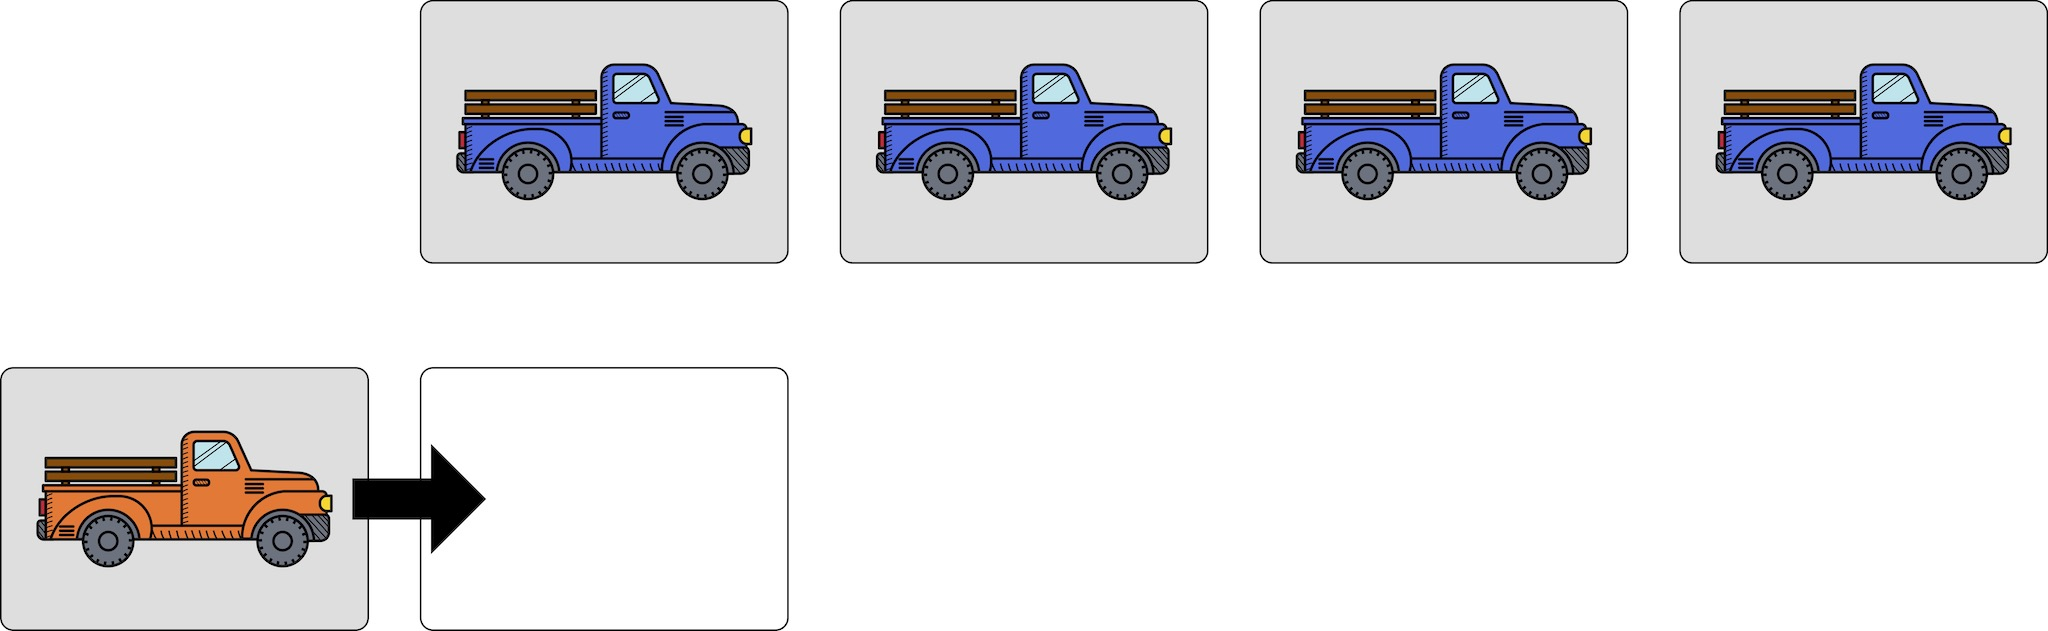
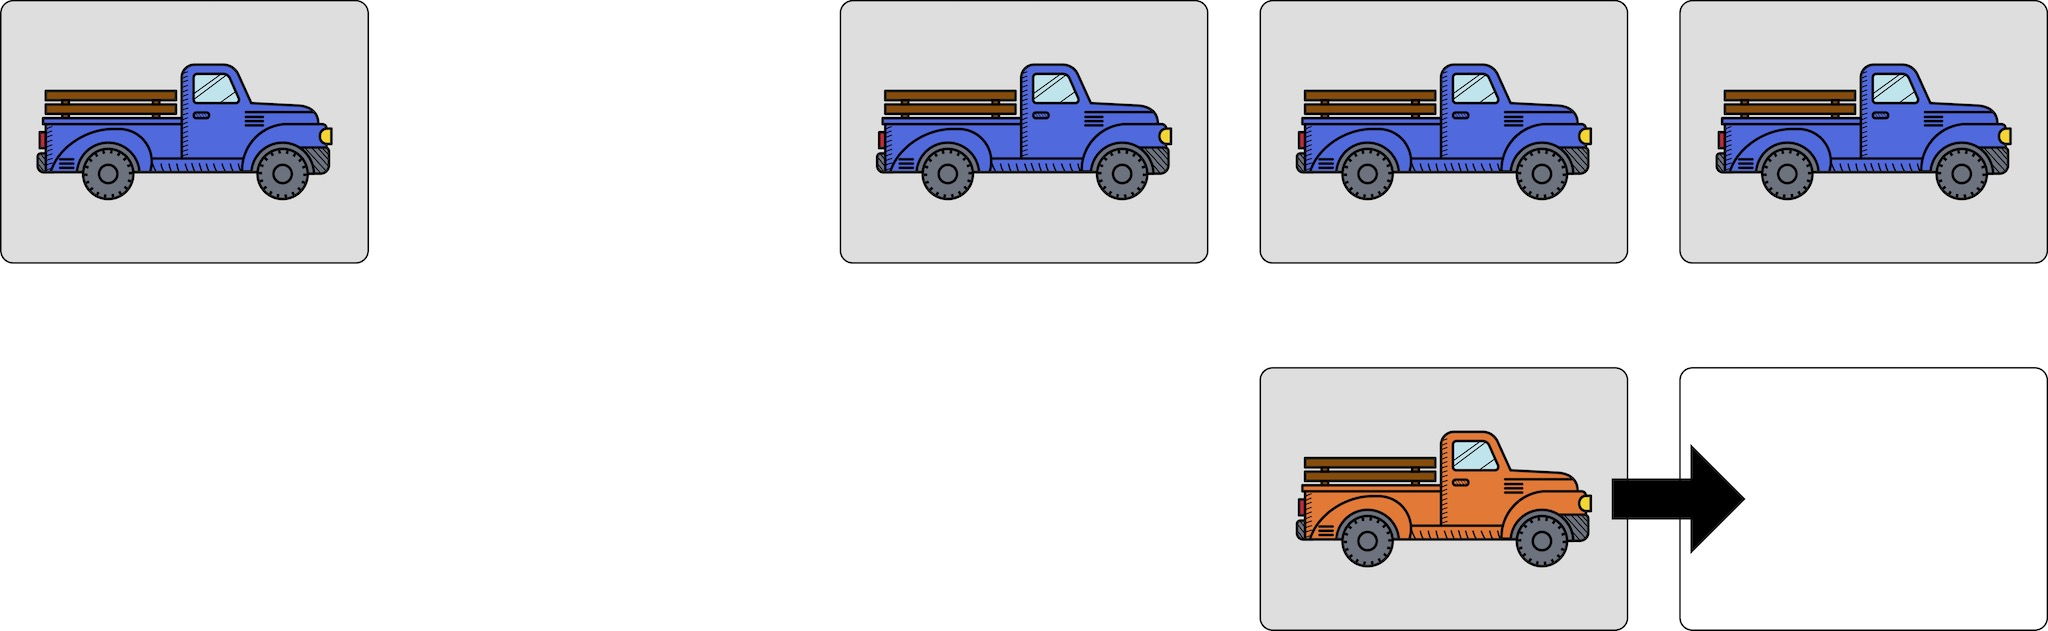
Update README.md

diff --git a/README.md b/README.md
@@ -61,17 +61,24 @@ To advance a balloon, you move a balloon from its current state to the next.
 If any balloons are flying, then before you advance a balloon you will move a truck. Trucks always move from left to right. The game ends immediately when the lead truck moves past the rightmost column of the tableau.
 
 When you move a truck, you will do one of the following:
-  - If the truck cards are in adjacent columns and the safety vehicle is below the last truck (e.g. the starting position) then you should move the rightmost truck one column to the right.
+  - Move a launch-zone (blue) truck.
+  - Move the safety (orange) truck.
 
-  ![Moving a truck when the trucks are in a single group and the safety vehicle is centered on the launch zone.](wind_diagram_1.jpg)
+The safety truck must always be between (or even with) the lead truck and the last truck. If moving the safety truck would cause it to move in front of the lead truck, then you must move a launch-zone truck. Similarly, if moving a launch-zone truck would cause the safety truck to fall behind the last truck, then you must move the safety truck.
 
-  - If the truck cards are not in adjacent columns, then the truck cards will be in two groups which are separated by one empty column. You should slide the rightmost truck from the first group one column to the right. It should then be the leftmost truck in the second group.
+#### Moving a Launch-Zone Truck
+If the truck cards are in adjacent columns, then you should move the rightmost truck one column to the right.
 
-  ![Moving a truck when the the trucks are in two groups.](wind_diagram_2.jpg)
+![Moving a truck when the trucks are in a single group and the safety vehicle is centered on the launch zone.](wind_diagram_1.jpg)
 
-  - If all of the truck cards are in adjacent rows, but the safety vehicle is not below the last truck (e.g. after each of the truck cards in the launch zone has been moved one time), then you should slide the safety vehicle one position to the right so that it is below the last truck.
+If the launch-zone trucks are not in adjacent columns, then they will be in two groups which are separated by one empty column. You should slide the rightmost truck from the first group one column to the right. It should then be the leftmost truck in the second group.
 
-  ![Moving a truck when the trucks are in a single group and the safety vehicle is not centered on the launch zone.](wind_diagram_3.jpg)
+![Moving a truck when the the trucks are in two groups.](wind_diagram_2.jpg)
+
+### Moving the Safety Truck
+To move the safety truck, you should slide it one column to the right. Remember that the safety truck must always be between (or even with) the lead truck and the last truck.
+
+![Moving a truck when the trucks are in a single group and the safety vehicle is not centered on the launch zone.](wind_diagram_3.jpg)
 
 __Note:__ Any balloon cards that are in the launch zone (i.e. balloons that are in the unpacked or inflated states) should accompany the truck card on which they have been placed when that truck card is moved. 
 
